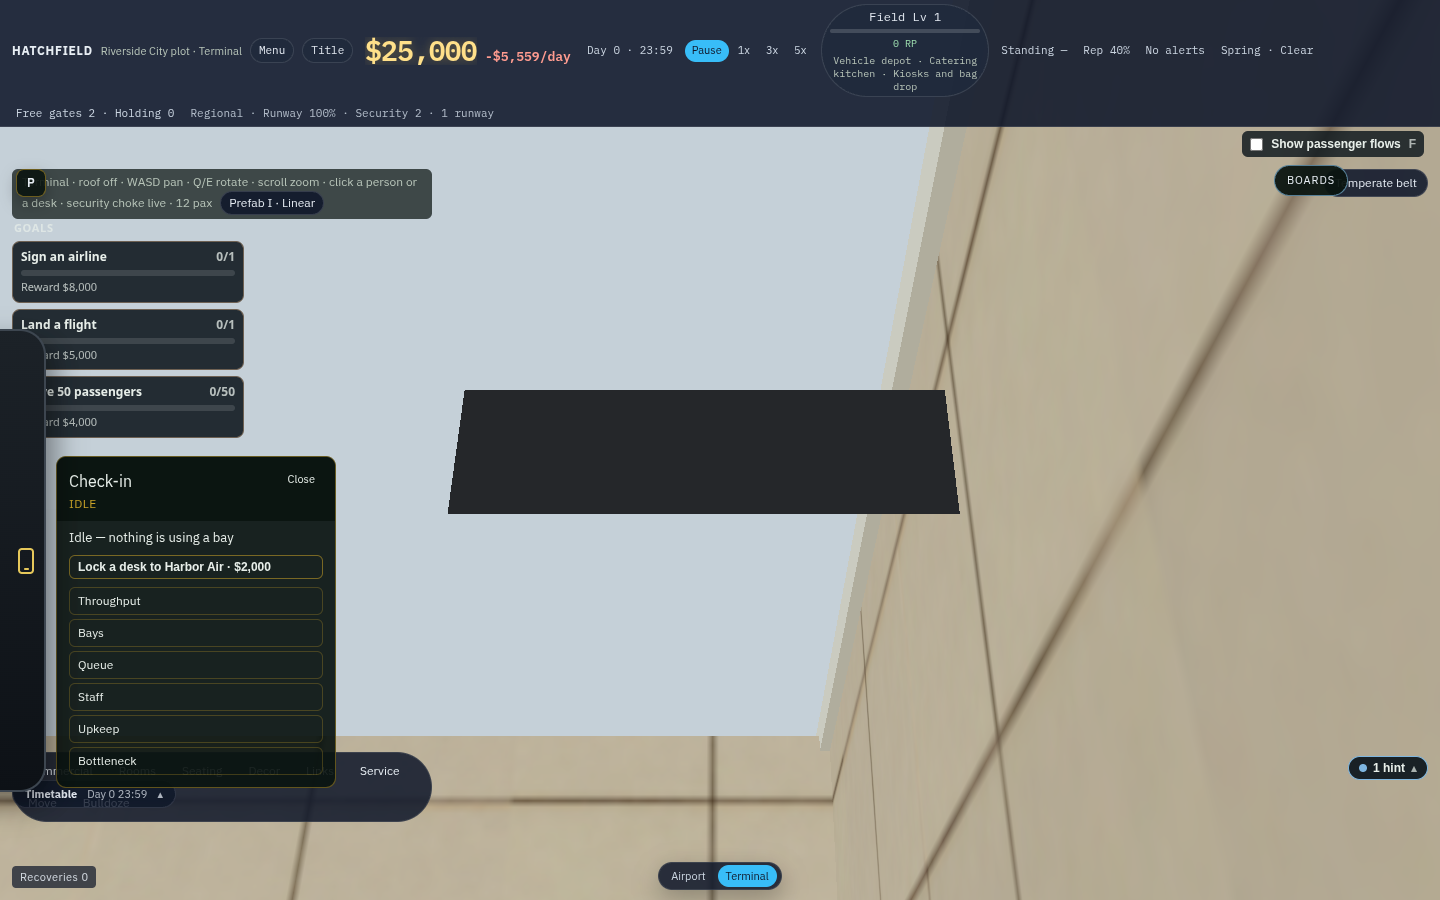
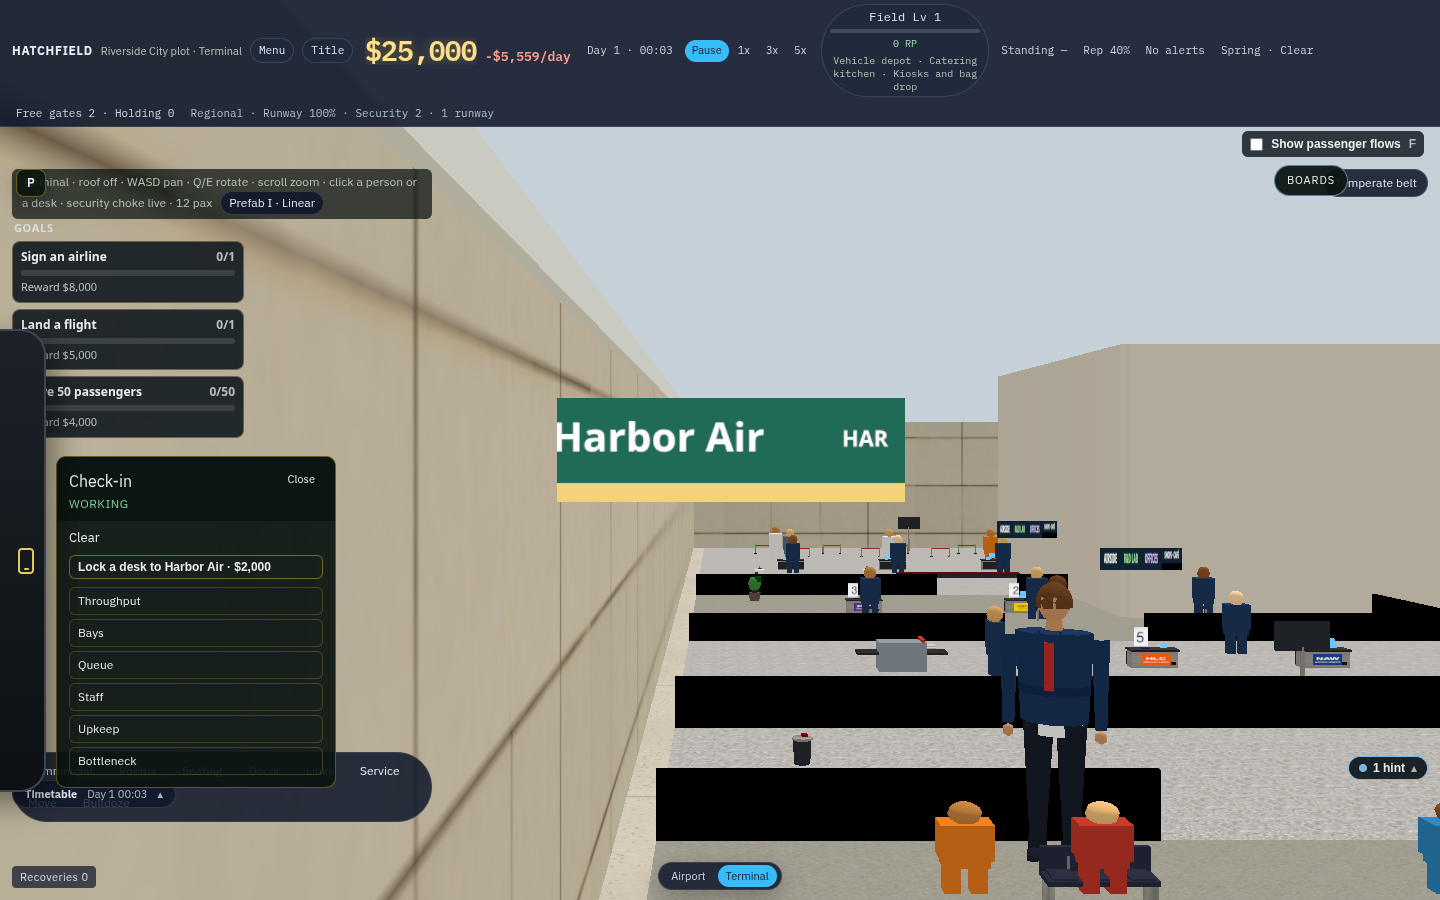
Frame each airline desk sign in the theme screenshots.
The orbit camera was easing away from the sign, so the shots showed the hall background. Park the lens on the live sign and require its livery color in the frame.

diff --git a/src/ui/deskTheme.e2e.test.ts b/src/ui/deskTheme.e2e.test.ts
@@ -75,11 +75,10 @@ describe('check-in desk themes', () => {
         expect(first.brands).toContain('harbor')
         expect(first.brands).not.toContain('northline')
         expect(first.live).toBe(true)
-        await page.evaluate(() => {
-          const game = (window as unknown as { __hatch: Hatch }).__hatch
-          ;(window as unknown as { __hall: HallCam }).__hall.render(game)
-        })
-        expect(await aim(page, 'harbor')).toBe(true)
+        const harborShot = await aim(page, 'harbor')
+        expect(harborShot.ok).toBe(true)
+        expect(harborShot.rgb[1]).toBeGreaterThan(harborShot.rgb[0] + 30)
+        expect(harborShot.rgb[1]).toBeGreaterThan(harborShot.rgb[2])
         mkdirSync('docs/screens/checkin', { recursive: true })
         await page.screenshot({ path: 'docs/screens/checkin/desk-harbor.png' })
 
@@ -93,11 +92,10 @@ describe('check-in desk themes', () => {
         expect(second.brands).toContain('northline')
         expect(second.brands).not.toContain('harbor')
         expect(second.why).not.toBe('short of desks')
-        await page.evaluate(() => {
-          const game = (window as unknown as { __hatch: Hatch }).__hatch
-          ;(window as unknown as { __hall: HallCam }).__hall.render(game)
-        })
-        expect(await aim(page, 'northline')).toBe(true)
+        const northShot = await aim(page, 'northline')
+        expect(northShot.ok).toBe(true)
+        expect(northShot.rgb[2]).toBeGreaterThan(northShot.rgb[0] + 30)
+        expect(northShot.rgb[2]).toBeGreaterThan(northShot.rgb[1])
         await page.screenshot({ path: 'docs/screens/checkin/desk-northline.png' })
       } finally {
         await browser.close()
@@ -128,33 +126,83 @@ interface Hatch {
   showStarterKit: () => boolean
 }
 
-async function aim(page: Page, brand: string): Promise<boolean> {
+async function aim(page: Page, brand: string): Promise<{ ok: boolean; rgb: number[] }> {
   return page.evaluate((id) => {
     const hall = (window as unknown as { __hall: HallCam }).__hall
-    const sign = hall.scene.getObjectByName(`desk-sign:${id}`)
-    if (!sign) return false
-    const game = (window as unknown as { __hatch: unknown }).__hatch
-    hall.dist = 3
-    hall.pitch = 0.18
-    hall.yaw = sign.rotation.y + Math.PI
-    hall.pivot.set(sign.position.x, sign.position.y, sign.position.z)
-    hall.placeCam()
+    const game = (window as unknown as { __hatch: { camGoal: unknown } }).__hatch
+    // Rebuild the signs for the current allocation before looking them up.
     hall.render(game)
-    return true
+    // A facility select eases the orbit camera. A grab cancels that ease so
+    // the framed render keeps the lens parked on the sign.
+    hall.renderer.domElement.dispatchEvent(new PointerEvent('pointerdown', { bubbles: true, clientX: 4, clientY: 4, button: 0 }))
+    game.camGoal = null
+    const sign = hall.scene.getObjectByName(`desk-sign:${id}`)
+    if (!sign) return { ok: false, rgb: [0, 0, 0] }
+    sign.updateWorldMatrix(true, false)
+    const normal = sign.position.clone()
+    sign.getWorldDirection(normal)
+    const eye = sign.position.clone().addScaledVector(normal, 5)
+    hall.camera.position.copy(eye)
+    hall.camera.up.set(0, 1, 0)
+    hall.camera.lookAt(sign.position)
+    hall.render(game)
+    const gl = hall.renderer.getContext()
+    function signPaint(mesh: Sign): number[] {
+      const canvas = mesh.material?.map?.image
+      const ctx = canvas?.getContext('2d')
+      const px = ctx?.getImageData(8, 8, 1, 1).data
+      return px ? [px[0], px[1], px[2]] : [0, 0, 0]
+    }
+    const paint = signPaint(sign)
+    const w = gl.drawingBufferWidth
+    const h = gl.drawingBufferHeight
+    const pix = new Uint8Array(4)
+    let best = [0, 0, 0]
+    let bestD = 1e9
+    for (let y = (h * 0.3) | 0; y < h * 0.7; y += 6) {
+      for (let x = (w * 0.3) | 0; x < w * 0.7; x += 6) {
+        gl.readPixels(x, y, 1, 1, gl.RGBA, gl.UNSIGNED_BYTE, pix)
+        const d = Math.abs(pix[0] - paint[0]) + Math.abs(pix[1] - paint[1]) + Math.abs(pix[2] - paint[2])
+        if (d < bestD) {
+          bestD = d
+          best = [pix[0], pix[1], pix[2]]
+        }
+      }
+    }
+    return { ok: bestD < 90, rgb: best }
   }, brand)
 }
 
 interface HallCam {
-  dist: number
-  pitch: number
-  yaw: number
-  pivot: { set: (x: number, y: number, z: number) => void }
-  placeCam: () => void
   render: (game: unknown) => void
-  scene: {
-    traverse: (fn: (obj: { name: string }) => void) => void
-    getObjectByName: (name: string) => { position: { x: number; y: number; z: number }; rotation: { y: number } } | undefined
+  renderer: {
+    domElement: HTMLCanvasElement
+    getContext: () => WebGL2RenderingContext
   }
+  camera: {
+    position: { copy: (v: Vec3) => void }
+    up: { set: (x: number, y: number, z: number) => void }
+    lookAt: (v: Vec3) => void
+  }
+  scene: {
+    getObjectByName: (name: string) => Sign | undefined
+  }
+}
+
+interface Vec3 {
+  x: number
+  y: number
+  z: number
+  clone: () => Vec3
+  copy: (v: Vec3) => Vec3
+  addScaledVector: (v: Vec3, s: number) => Vec3
+}
+
+interface Sign {
+  position: Vec3
+  material?: { map?: { image?: HTMLCanvasElement } }
+  updateWorldMatrix: (updateParents: boolean, updateChildren: boolean) => void
+  getWorldDirection: (target: Vec3) => Vec3
 }
 
 function viteBin(): string {
